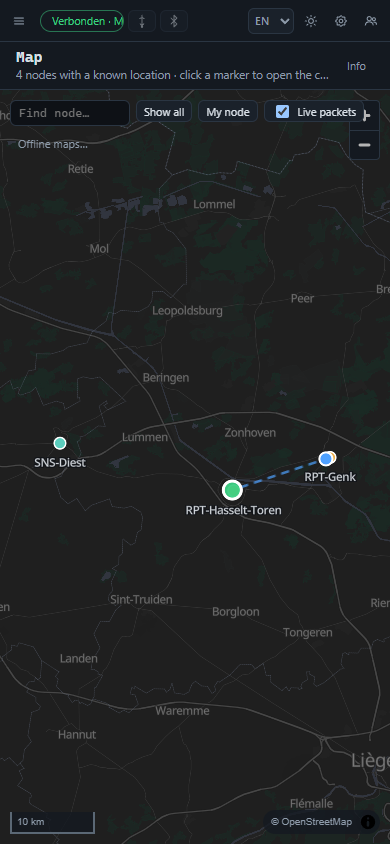
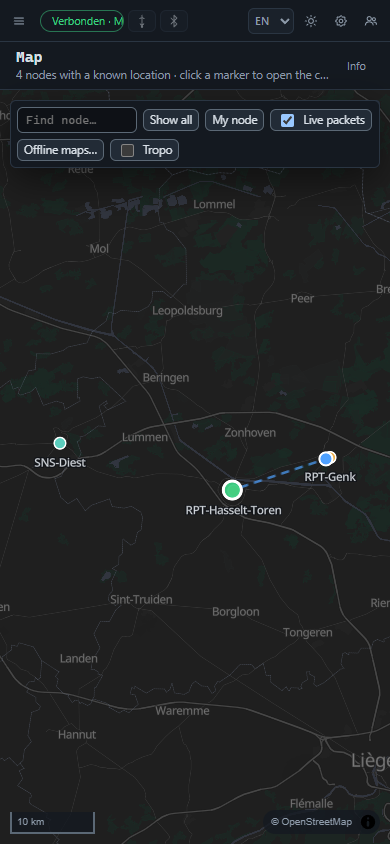
v0.3.1: tropo via canvas-bron (CSP), raster dekt hele beeld, compacte uren-kiezer; screenshots in handleiding

Changed region(s): [[0.0308, 0.1232, 0.9538, 0.2156]]

diff --git a/meshchat.html b/meshchat.html
@@ -421,6 +421,9 @@ h4.sub{margin:4px 0 8px;font-size:11px;letter-spacing:.8px;text-transform:upperc
 .map-countries label{display:flex;align-items:center;gap:8px;font-size:12.5px;padding:3px 0} .map-countries .sz{margin-left:auto;font-family:var(--mono);font-size:11px;color:var(--fg-mute)}
 @media (max-width:900px){ #map-legend{display:none} }
 .maplibregl-popup{z-index:5}
+
+#map-tropo-h{width:auto;flex:0 0 auto;height:26px;font-size:12px;padding:0 4px}
+@media (max-width:600px){ #map-tools{max-width:calc(100% - 20px)} #map-tools .btn,#map-tools label.btn{padding:3px 6px;font-size:11.5px} #map-search{width:120px!important} }
 </style>
 </head>
 <body>
@@ -3798,7 +3801,7 @@ function applyLang(rerender = true) {
 /* ===================== Application: state, persistence, model ===================== */
 const $ = (s, r = document) => r.querySelector(s), $$ = (s, r = document) => Array.from(r.querySelectorAll(s));
 const esc = (s) => String(s ?? '').replace(/[&<>"']/g, c => ({ '&': '&amp;', '<': '&lt;', '>': '&gt;', '"': '&quot;', "'": '&#39;' }[c]));
-const APP_BUILD = '20260921-2252-895e7d5'; // wordt door build.sh vervangen door datum+commit; basis van de updatecheck
+const APP_BUILD = '20260922-0007-c13475d'; // wordt door build.sh vervangen door datum+commit; basis van de updatecheck
 const APP_VERSION = '0.3.0', APP_REPO = 'https://github.com/DinXke/MeshChat', APP_AUTHOR = 'DinX';
 const LS_KEY = 'mcirc.v1';
 const MAX_HIST = 400;
@@ -4061,7 +4064,7 @@ function mapInit(container) {
   const pick = (e) => { const fs = mapObj.queryRenderedFeatures([[e.point.x - 16, e.point.y - 16], [e.point.x + 16, e.point.y + 16]], { layers: ['nodes-hit', 'nodes-label'] }); if (!fs.length) return null; let best = fs[0], bd = 1e9; for (const f of fs) { const p = mapObj.project(f.geometry.coordinates); const d = Math.hypot(p.x - e.point.x, p.y - e.point.y); if (d < bd) { bd = d; best = f; } } return best; };
   mapObj.on('click', (e) => { const f = pick(e); if (!f) return; e.preventDefault && e.preventDefault(); mapPopup(f, { lng: f.geometry.coordinates[0], lat: f.geometry.coordinates[1] }); });
   mapObj.on('mousemove', (e) => { mapObj.getCanvas().style.cursor = pick(e) ? 'pointer' : ''; });
-  mapObj.on('error', (e) => { const msg = e && e.error && e.error.message || ''; if (/pmtiles|tiles|Failed to fetch/i.test(msg)) mapSetNotice(t('map_offline_missing')); });
+  mapObj.on('error', (e) => { if (e && e.sourceId === 'tropo') return; const msg = e && e.error && e.error.message || ''; if (/pmtiles|tiles|Failed to fetch/i.test(msg)) mapSetNotice(t('map_offline_missing')); });
   return mapObj;
 }
 function mapSetTheme() { if (!mapObj) return; mapObj.setStyle(mapStyle()); /* style.load voegt overlays opnieuw toe */ }
@@ -4222,8 +4225,9 @@ function tropoRGBA(g) {
 }
 function tropoGrid() {
   const b = mapObj.getBounds(); const w = b.getWest(), e = b.getEast(), s = b.getSouth(), n = b.getNorth();
-  const pw = (e - w) * 0.15, ph = (n - s) * 0.15; const r = (v) => Math.round(v * 4) / 4;
-  return { w: r(w - pw), e: r(e + pw), s: Math.max(-85, r(s - ph)), n: Math.min(85, r(n + ph)) };
+  // ruim rondom het beeld (15 %, minstens 0,1°) en naar buiten afronden op 0,25°, zodat de laag altijd het hele beeld dekt
+  const pw = Math.max(0.1, (e - w) * 0.15), ph = Math.max(0.1, (n - s) * 0.15); const fl = (v) => Math.floor(v * 4) / 4, ce = (v) => Math.ceil(v * 4) / 4;
+  return { w: fl(w - pw), e: ce(e + pw), s: Math.max(-85, fl(s - ph)), n: Math.min(85, ce(n + ph)) };
 }
 function tropoHourIndex(times, hoursAhead) {
   const target = new Date(); target.setUTCMinutes(0, 0, 0); target.setUTCHours(target.getUTCHours() + hoursAhead);
@@ -4268,15 +4272,20 @@ function tropoDraw(grad, g) {
     }
   }
   ctx.putImageData(img, 0, 0);
-  const coords = [[g.w, g.n], [g.e, g.n], [g.e, g.s], [g.w, g.s]]; const url = cv.toDataURL('image/png');
-  tropoApply(url, coords);
+  tropoApply([[g.w, g.n], [g.e, g.n], [g.e, g.s], [g.w, g.s]]);
 }
-// bron/laag pas zetten als de stijl geladen is (anders gooit MapLibre); tot dan onthouden
-function tropoApply(url, coords) {
-  if (!mapObj.isStyleLoaded()) { tropoSt.pending = { url, coords }; mapObj.once('idle', () => { const p = tropoSt.pending; if (p) { tropoSt.pending = null; tropoApply(p.url, p.coords); } }); return; }
-  const src = mapObj.getSource('tropo');
-  if (src) src.updateImage({ url, coordinates: coords }); else mapObj.addSource('tropo', { type: 'image', url, coordinates: coords });
-  tropoEnsureLayer();
+// Canvas-bron (geen fetch, dus geen CSP- of offline-probleem); bij elke verversing bron en laag opnieuw zetten,
+// want een niet-geanimeerde canvas-bron leest het canvas maar één keer. Pas als de stijl geladen is.
+function tropoApply(coords) {
+  // isStyleLoaded() wacht ook op alle tegels; hier is alleen de stijl zelf nodig (anders gooit addSource)
+  const defer = (ev) => { tropoSt.pending = coords; mapObj.once(ev, () => { const p = tropoSt.pending; if (p) { tropoSt.pending = null; tropoApply(p); } }); };
+  if (!(mapObj.style && mapObj.style._loaded)) { defer('style.load'); return; }
+  try {
+    if (mapObj.getLayer('tropo')) mapObj.removeLayer('tropo');
+    if (mapObj.getSource('tropo')) mapObj.removeSource('tropo');
+    mapObj.addSource('tropo', { type: 'canvas', canvas: tropoSt.canvas, coordinates: coords, animate: false });
+    tropoEnsureLayer();
+  } catch (e) { defer('idle'); }
 }
 function tropoEnsureLayer() {
   if (!mapObj || !mapObj.getSource('tropo')) return;
@@ -5590,7 +5599,7 @@ function init() {
   loadState(); initLang(); mkConv('status', 'status', 'MeshChat', null, null); S.convs.get('status').open = true; mkConv('map', 'map', t('map.title'), null, null).open = true;
   for (const c of S.contacts.values()) { c.loggedIn = false; if (c.type >= 2 && !c.hidden) convForContact(c); }
   for (const ch of S.channels) if (ch && ch.name) convForChannel(ch);
-  $$('.app-version').forEach(e => e.textContent = 'v' + APP_VERSION + (APP_BUILD !== '20260921-2252-895e7d5' ? ' · ' + APP_BUILD : '')); $$('a.app-repo').forEach(a => { a.href = APP_REPO; a.textContent = APP_REPO.replace(/^https?:\/\//, ''); }); $$('.app-author').forEach(e => e.textContent = APP_AUTHOR);
+  $$('.app-version').forEach(e => e.textContent = 'v' + APP_VERSION + (APP_BUILD !== '20260922-0007-c13475d' ? ' · ' + APP_BUILD : '')); $$('a.app-repo').forEach(a => { a.href = APP_REPO; a.textContent = APP_REPO.replace(/^https?:\/\//, ''); }); $$('.app-author').forEach(e => e.textContent = APP_AUTHOR);
   setTheme(S.settings.theme); applyView(); wire(); renderNick(); renderBattery(); setStatusKey('st-off', 'status.off');
   const st = S.convs.get('status');
   if (!st.msgs.length) { addMsg(st, { kind: 'notice', text: t('init.welcome') }); if (!SerialTransport.supported() && !BleTransport.supported()) addMsg(st, { kind: 'error', text: t('init.noSupport') }); if (location.protocol === 'file:') addMsg(st, { kind: 'notice', text: t('init.fileTip') }); }
@@ -5648,7 +5657,7 @@ function initPwa() {
   const check = async () => {
     try {
       const res = await fetch(location.pathname, { cache: 'no-store' }); if (!res.ok) return;
-      const html = await res.text(); const mb = /APP_BUILD = '([^']+)'/.exec(html); const mv = /APP_VERSION = '([^']+)'/.exec(html); if (!mb || !mv || mb[1] === APP_BUILD || mb[1] === '20260921-2252-895e7d5') return; const m = [null, mv[1] + (mb[1] ? ' · ' + mb[1] : '')];
+      const html = await res.text(); const mb = /APP_BUILD = '([^']+)'/.exec(html); const mv = /APP_VERSION = '([^']+)'/.exec(html); if (!mb || !mv || mb[1] === APP_BUILD || mb[1] === '20260922-0007-c13475d') return; const m = [null, mv[1] + (mb[1] ? ' · ' + mb[1] : '')];
       if ($('#toast-update')) return;
       const el = document.createElement('div'); el.className = 'toast ok'; el.id = 'toast-update';
       el.innerHTML = `<span class="dot on"></span><span>${esc(t('update.available', m[1], APP_VERSION))}</span><button class="btn sm primary" id="btn-reload">${esc(t('update.reload'))}</button><button class="btn icon ghost sm x" aria-label="${esc(t('ui.close'))}">${icon('x')}</button>`;

diff --git a/src/tropo.js b/src/tropo.js
@@ -30,8 +30,9 @@ function tropoRGBA(g) {
 }
 function tropoGrid() {
   const b = mapObj.getBounds(); const w = b.getWest(), e = b.getEast(), s = b.getSouth(), n = b.getNorth();
-  const pw = (e - w) * 0.15, ph = (n - s) * 0.15; const r = (v) => Math.round(v * 4) / 4;
-  return { w: r(w - pw), e: r(e + pw), s: Math.max(-85, r(s - ph)), n: Math.min(85, r(n + ph)) };
+  // ruim rondom het beeld (15 %, minstens 0,1°) en naar buiten afronden op 0,25°, zodat de laag altijd het hele beeld dekt
+  const pw = Math.max(0.1, (e - w) * 0.15), ph = Math.max(0.1, (n - s) * 0.15); const fl = (v) => Math.floor(v * 4) / 4, ce = (v) => Math.ceil(v * 4) / 4;
+  return { w: fl(w - pw), e: ce(e + pw), s: Math.max(-85, fl(s - ph)), n: Math.min(85, ce(n + ph)) };
 }
 function tropoHourIndex(times, hoursAhead) {
   const target = new Date(); target.setUTCMinutes(0, 0, 0); target.setUTCHours(target.getUTCHours() + hoursAhead);
@@ -76,15 +77,20 @@ function tropoDraw(grad, g) {
     }
   }
   ctx.putImageData(img, 0, 0);
-  const coords = [[g.w, g.n], [g.e, g.n], [g.e, g.s], [g.w, g.s]]; const url = cv.toDataURL('image/png');
-  tropoApply(url, coords);
+  tropoApply([[g.w, g.n], [g.e, g.n], [g.e, g.s], [g.w, g.s]]);
 }
-// bron/laag pas zetten als de stijl geladen is (anders gooit MapLibre); tot dan onthouden
-function tropoApply(url, coords) {
-  if (!mapObj.isStyleLoaded()) { tropoSt.pending = { url, coords }; mapObj.once('idle', () => { const p = tropoSt.pending; if (p) { tropoSt.pending = null; tropoApply(p.url, p.coords); } }); return; }
-  const src = mapObj.getSource('tropo');
-  if (src) src.updateImage({ url, coordinates: coords }); else mapObj.addSource('tropo', { type: 'image', url, coordinates: coords });
-  tropoEnsureLayer();
+// Canvas-bron (geen fetch, dus geen CSP- of offline-probleem); bij elke verversing bron en laag opnieuw zetten,
+// want een niet-geanimeerde canvas-bron leest het canvas maar één keer. Pas als de stijl geladen is.
+function tropoApply(coords) {
+  // isStyleLoaded() wacht ook op alle tegels; hier is alleen de stijl zelf nodig (anders gooit addSource)
+  const defer = (ev) => { tropoSt.pending = coords; mapObj.once(ev, () => { const p = tropoSt.pending; if (p) { tropoSt.pending = null; tropoApply(p); } }); };
+  if (!(mapObj.style && mapObj.style._loaded)) { defer('style.load'); return; }
+  try {
+    if (mapObj.getLayer('tropo')) mapObj.removeLayer('tropo');
+    if (mapObj.getSource('tropo')) mapObj.removeSource('tropo');
+    mapObj.addSource('tropo', { type: 'canvas', canvas: tropoSt.canvas, coordinates: coords, animate: false });
+    tropoEnsureLayer();
+  } catch (e) { defer('idle'); }
 }
 function tropoEnsureLayer() {
   if (!mapObj || !mapObj.getSource('tropo')) return;

diff --git a/src/tools/shots.js b/src/tools/shots.js
@@ -12,6 +12,8 @@ const SHOTS = [
   { name: 'repeater', view: 'repeater', w: 1400, h: 860, wait: 8000 },
   { name: 'room', view: 'room', w: 1400, h: 860, wait: 9000 },
   { name: 'map', view: 'map', w: 1400, h: 860, wait: 16000, map: true },
+  { name: 'map-tropo', view: 'map', w: 1400, h: 860, wait: 16000, map: true, after: 'tropoSetEnabled(true); 1', afterWait: 9000, check: '({layer: !!mapObj.getLayer("tropo"), src: !!mapObj.getSource("tropo"), legend: document.querySelector("#map-tropo-ts").textContent, notice: document.querySelector("#map-notice").textContent})' },
+  { name: 'status', view: 'repeater', w: 1400, h: 860, wait: 8000, after: 'const rp=[...S.contacts.values()].find(c=>c.type===2); openStatusDlg(rp); (async()=>{ await C.statusReq(rp.pub); await fetchRadioSettings(rp); })(); 1', afterWait: 22000 },
   { name: 'contacts', view: 'contacts', w: 1400, h: 860, wait: 4000 },
   { name: 'settings-map', view: 'settings:map', w: 1400, h: 860, wait: 4000 },
   { name: 'settings-region', view: 'settings:region', w: 1400, h: 860, wait: 4000 },
@@ -50,6 +52,8 @@ async function main() {
         await c.send('Runtime.evaluate', { expression: 'mapFitAll(); const rpt=[...S.contacts.values()].find(c=>c.name==="RPT-Genk"); rpt && mapAnimatePacket(mapPacketPath(rpt.pub, ["a1"]), "#4ea1ff", 60000); 1', returnByValue: true });
         await sleep(2500);
       }
+      if (s.after) { await c.send('Runtime.evaluate', { expression: s.after, returnByValue: true }); await sleep(s.afterWait || 3000); }
+      if (s.check) { const r = await c.send('Runtime.evaluate', { expression: s.check, returnByValue: true }); console.log(`${s.name} check:`, JSON.stringify(r.result.value)); }
       const shot = await c.send('Page.captureScreenshot', { format: 'png', captureBeyondViewport: false });
       fs.writeFileSync(path.join(OUT, s.name + '.png'), Buffer.from(shot.data, 'base64'));
       console.log(`${s.name}: ${Buffer.from(shot.data, 'base64').length} bytes`);

diff --git a/src/map.js b/src/map.js
@@ -94,7 +94,7 @@ function mapInit(container) {
   const pick = (e) => { const fs = mapObj.queryRenderedFeatures([[e.point.x - 16, e.point.y - 16], [e.point.x + 16, e.point.y + 16]], { layers: ['nodes-hit', 'nodes-label'] }); if (!fs.length) return null; let best = fs[0], bd = 1e9; for (const f of fs) { const p = mapObj.project(f.geometry.coordinates); const d = Math.hypot(p.x - e.point.x, p.y - e.point.y); if (d < bd) { bd = d; best = f; } } return best; };
   mapObj.on('click', (e) => { const f = pick(e); if (!f) return; e.preventDefault && e.preventDefault(); mapPopup(f, { lng: f.geometry.coordinates[0], lat: f.geometry.coordinates[1] }); });
   mapObj.on('mousemove', (e) => { mapObj.getCanvas().style.cursor = pick(e) ? 'pointer' : ''; });
-  mapObj.on('error', (e) => { const msg = e && e.error && e.error.message || ''; if (/pmtiles|tiles|Failed to fetch/i.test(msg)) mapSetNotice(t('map_offline_missing')); });
+  mapObj.on('error', (e) => { if (e && e.sourceId === 'tropo') return; const msg = e && e.error && e.error.message || ''; if (/pmtiles|tiles|Failed to fetch/i.test(msg)) mapSetNotice(t('map_offline_missing')); });
   return mapObj;
 }
 function mapSetTheme() { if (!mapObj) return; mapObj.setStyle(mapStyle()); /* style.load voegt overlays opnieuw toe */ }

diff --git a/src/app1.js b/src/app1.js
@@ -2,7 +2,7 @@
 const $ = (s, r = document) => r.querySelector(s), $$ = (s, r = document) => Array.from(r.querySelectorAll(s));
 const esc = (s) => String(s ?? '').replace(/[&<>"']/g, c => ({ '&': '&amp;', '<': '&lt;', '>': '&gt;', '"': '&quot;', "'": '&#39;' }[c]));
 const APP_BUILD = '__BUILD__'; // wordt door build.sh vervangen door datum+commit; basis van de updatecheck
-const APP_VERSION = '0.3.0', APP_REPO = 'https://github.com/DinXke/MeshChat', APP_AUTHOR = 'DinX';
+const APP_VERSION = '0.3.1', APP_REPO = 'https://github.com/DinXke/MeshChat', APP_AUTHOR = 'DinX';
 const LS_KEY = 'mcirc.v1';
 const MAX_HIST = 400;
 

diff --git a/src/map.css b/src/map.css
@@ -24,3 +24,6 @@
 .map-countries label{display:flex;align-items:center;gap:8px;font-size:12.5px;padding:3px 0} .map-countries .sz{margin-left:auto;font-family:var(--mono);font-size:11px;color:var(--fg-mute)}
 @media (max-width:900px){ #map-legend{display:none} }
 .maplibregl-popup{z-index:5}
+
+#map-tropo-h{width:auto;flex:0 0 auto;height:26px;font-size:12px;padding:0 4px}
+@media (max-width:600px){ #map-tools{max-width:calc(100% - 20px)} #map-tools .btn,#map-tools label.btn{padding:3px 6px;font-size:11.5px} #map-search{width:120px!important} }

diff --git a/docs/MANUAL.md b/docs/MANUAL.md
@@ -61,6 +61,8 @@ Direct messages are acknowledged (✓). Delivery is retried automatically: "atte
 
 Plain text in a repeater window is sent as a CLI command (`ver`, `get radio`, `neighbors`, `advert`, …). Log in first with the admin password. Quick-command chips sit above the input. The info panel offers **Status** (statistics), **Neighbours** (sends `neighbors` and draws them on the map), **Status window**, **Telemetry**, **Trace** (SNR per hop), **Find path**, **Set path** and **Reset path**.
 
+![Status window](screenshots/status.png)
+
 The **status window** shows the last status reply as a table (battery, uptime, noise floor, counters, airtime, duplicates) and, after *Fetch radio settings*, the radio configuration (`get radio`, `get tx`, `get af`, `get repeat`, advert intervals, delays, position, `ver`, `clock`; some values need an admin login). A **Details** button appears under every status reply in the window; tick *Open automatically on a status reply* inside the window if you prefer it to pop up by itself. Key prefixes in CLI replies (for example in `neighbors`) are annotated with the contact name when known.
 
 ## 3. Messages
@@ -89,6 +91,8 @@ The Contacts dialog supports searching, filtering by type, sorting (recent, name
 ![Map](screenshots/map.png)
 
 The map shows every contact with a known position (from its advert) plus your own node, coloured by type. Pending adverts appear as hollow markers with a "?". Click a marker for a popup with *Open* and *Info*; right-click a contact anywhere for *Show on map*. With **Live packets** enabled, packets your node hears are animated along the path of repeaters towards you.
+
+![Tropo overlay](screenshots/map-tropo.png)
 
 **Tropo** (off by default, needs internet) overlays an estimate of tropospheric ducting from the Open-Meteo weather model: for every grid point the refractivity gradient dN/dh is computed between the 1000 and 850 hPa levels; yellow marks super-refraction (below -79 N/km, extended range), red marks ducting (below -157 N/km). Pick *now* or +6/+12/+24 hours. The overlay follows the map view and the legend shows the model hour and the steepest gradient in view. It is a coarse model estimate, not a measurement.
 

diff --git a/CHANGELOG.md b/CHANGELOG.md
@@ -4,6 +4,11 @@ De versie staat in `src/app1.js` (`APP_VERSION`) en in het Over-venster van de a
 
 Elke release krijgt een git-tag `vX.Y.Z` en een GitHub-release met `meshchat.html` als bijlage. Schema: MINOR bij nieuwe functies, PATCH bij correcties, MAJOR bij een breuk in opslagformaat of protocol.
 
+## 0.3.1 - 2026-09-22
+
+- **Tropo-overlay**: tekent nu via een canvas-bron in plaats van een data-URL (die werd op de gehoste versie door de CSP geblokkeerd en gaf de melding "kaartdelen niet in de cache"); raster wordt naar buiten afgerond zodat de laag altijd het hele beeld dekt; laag verschijnt zodra de stijl er is, zonder op alle tegels te wachten; uren-kiezer compact in de kaartbalk, ook op smartphones.
+- **Docs**: schermafbeeldingen van de tropo-overlay en het statusvenster in de handleiding.
+
 ## 0.3.0 - 2026-09-22
 
 - **Tropo-overlay** op de kaart (aan/uit in de kaartbalk, standaard uit, alleen online): schatting van tropo-ducting uit het Open-Meteo-weermodel (refractiviteitsgradiënt onder 1,5 km); geel = superrefractie, rood = ducting; keuze nu / +6 / +12 / +24 uur; volgt het kaartbeeld.
